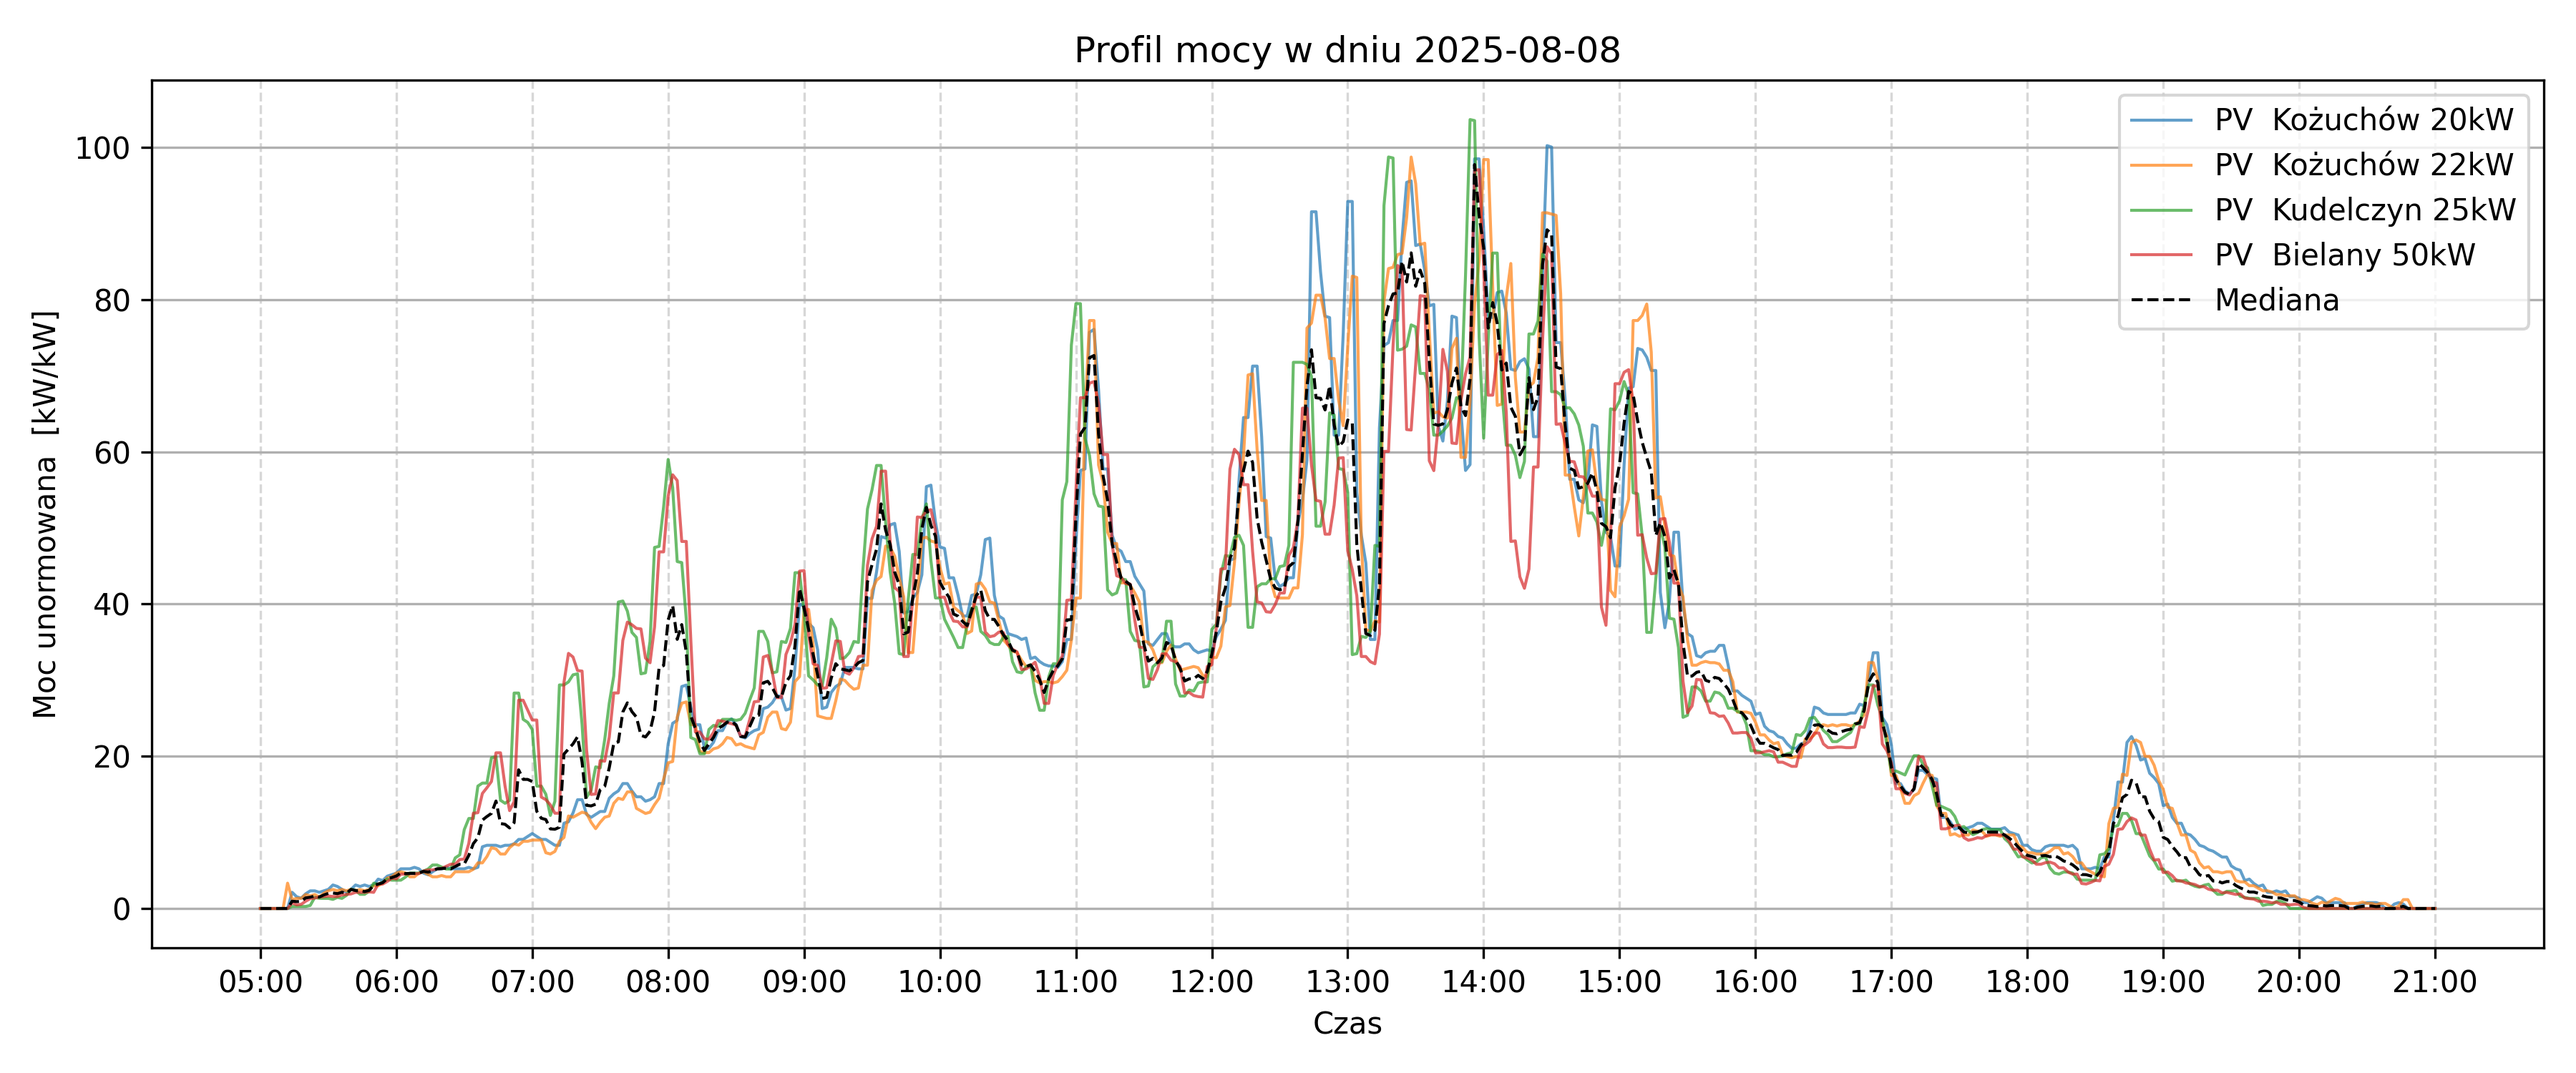
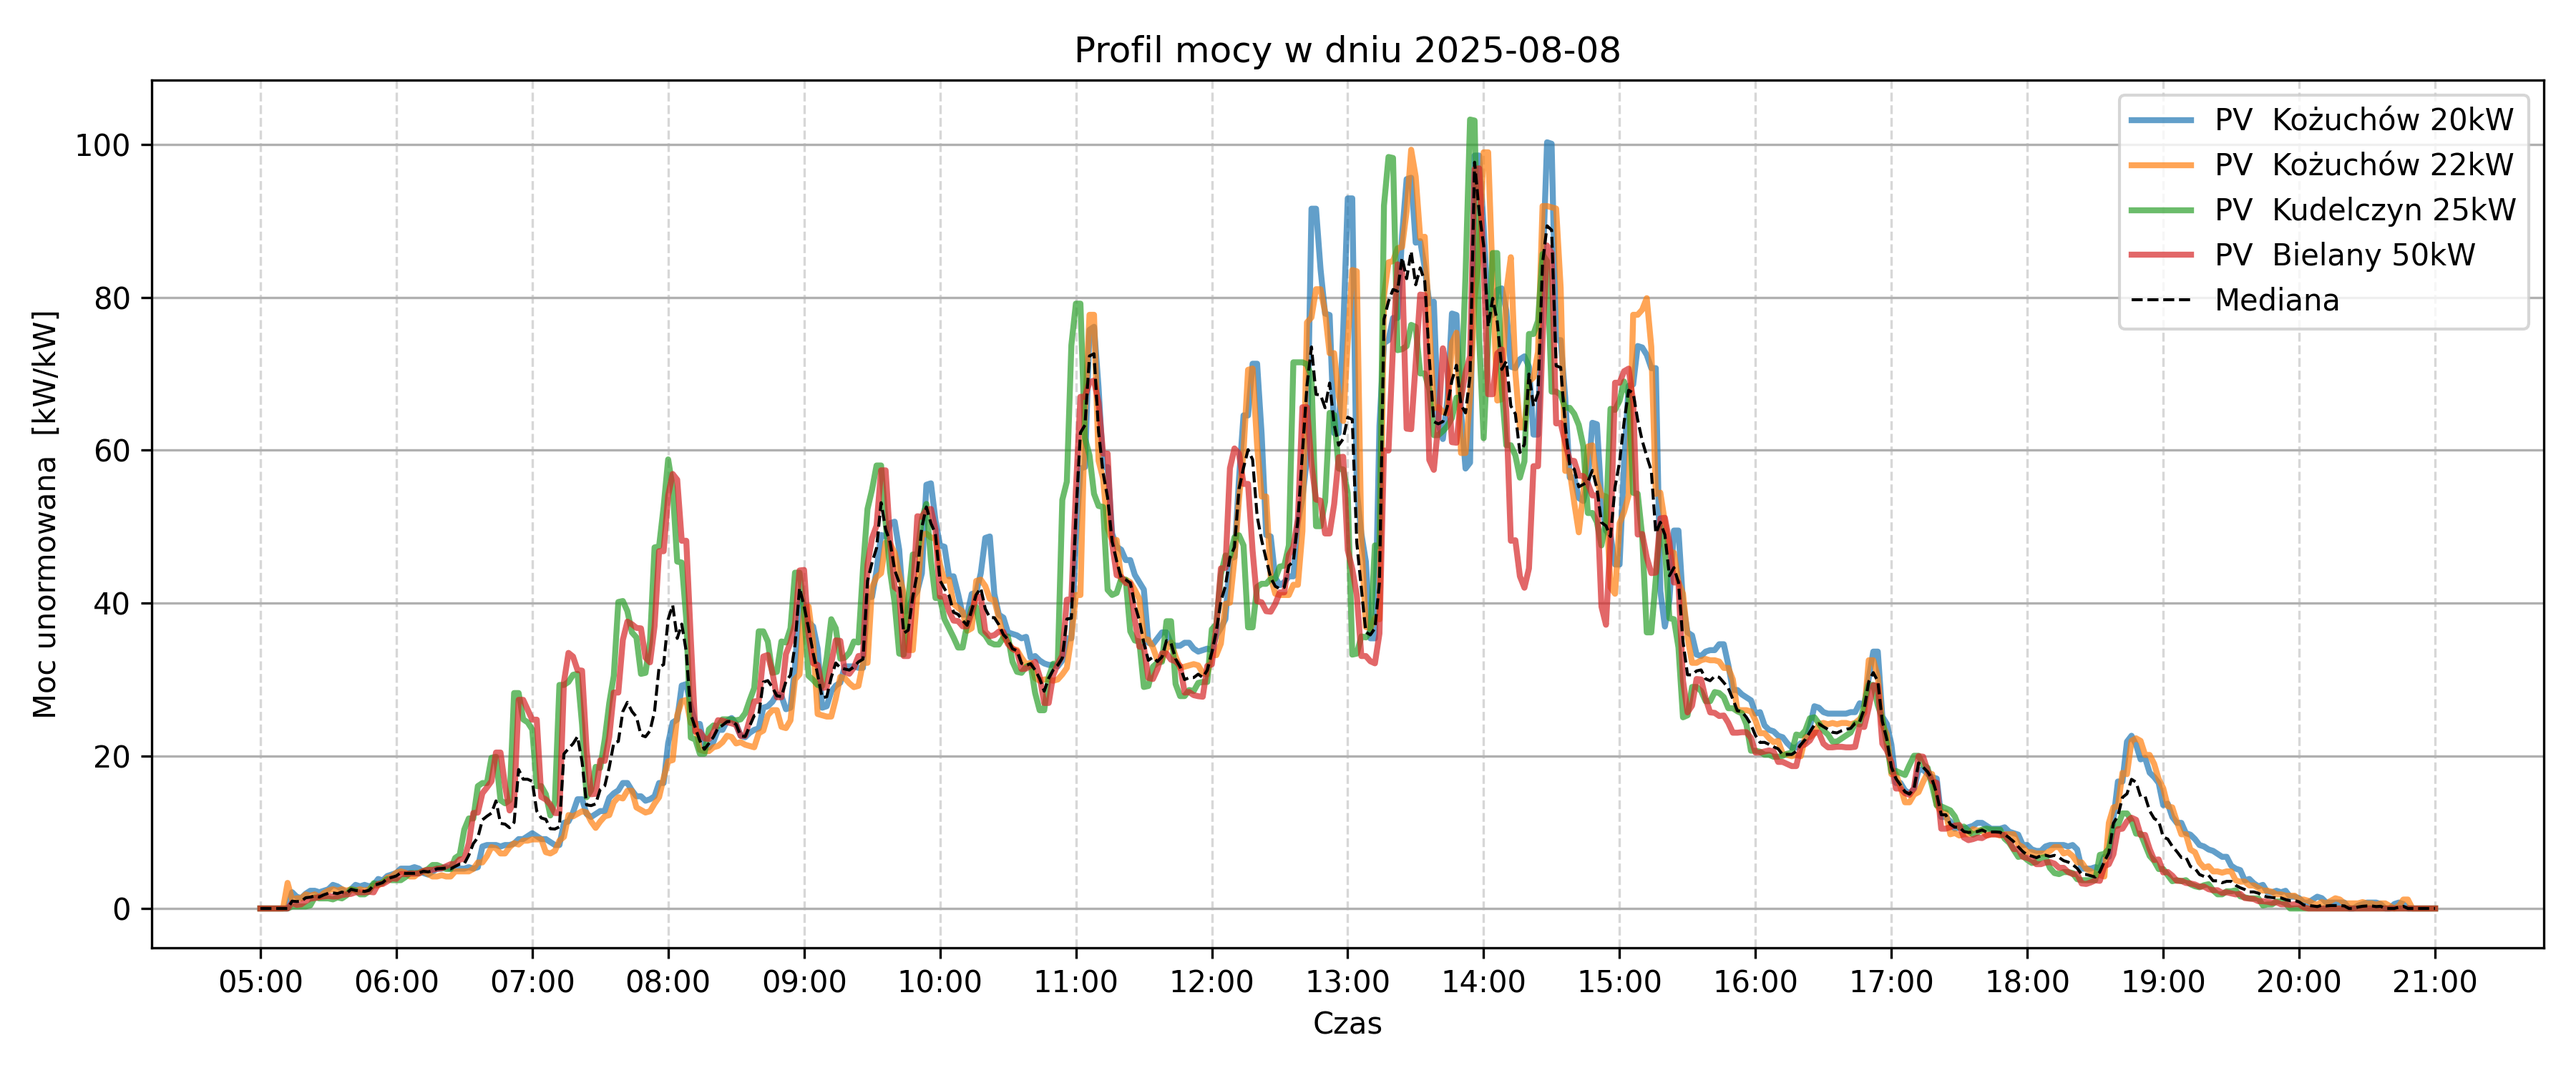
zmiany w wykresach i przeliczenie historii

Changed region(s): [[0.0311, 0.1227, 0.9644, 0.8587], [0.7467, 0.6747, 0.8711, 0.828], [0.8711, 0.828, 0.9333, 0.8587]]

diff --git a/A5_analyze/analizy.py b/A5_analyze/analizy.py
@@ -27,8 +27,6 @@ def get_device_name(sn):
     else:
         device_name='Unknown Device'
     return device_name
-
-
 def load_db_data(engine, date_str: str) -> pd.DataFrame:
     logger.info(f"\nPobieranie danych z bazy danych dla dnia: {date_str}")
     """
@@ -255,7 +253,6 @@ def interpolate_energy_linear_grid(df_db_data: pd.DataFrame, df_coeff, date_str,
     plot_all_with_median(df_all_sn_kW, date_str, save_path=f"{config.PLOTS_DIR}/median_{date_str}.png")
     #plot_all_with_median(df_all_sn_kW, date_str)
     return df_all_sn_kW #all
-
 def df_to_db(df: pd.DataFrame, engine, table_name: str, sn_value: str):
     """
     Zapisuje DataFrame do tabeli SQL:
@@ -322,7 +319,6 @@ def df_to_db(df: pd.DataFrame, engine, table_name: str, sn_value: str):
     with engine.begin() as connection:
         connection.execute(text(sql_insert))
         connection.execute(text(sql_drop))
-
 def analyze_sn(sn, coeff, group, df_all_sn_kW,full_index,timeprobe:str, date_str: str) -> None:
     # sn - identyfikator instalacji
     # coeff - współczynnik dla instalacji
@@ -443,7 +439,7 @@ def plot_all_with_median(df_all,date_str,save_path=None):
     for col in df_all.columns:
         sn_name=get_device_name(col)
         if col != 'median_kW':
-            plt.plot(df_all.index, df_all[col], label=sn_name, linewidth=1, alpha=0.7)
+            plt.plot(df_all.index, df_all[col], label=sn_name, linewidth=2, alpha=0.7)
 
     # Mediana — na końcu, grubszą linią
     plt.plot(df_all.index, df_all['median_kW'],
@@ -491,20 +487,19 @@ def main():
     engine = connect_db()
     # print (df_coeff.head(10))
     #reference_cases = ["2025-04-25", "2025-05-14", "2025-05-22", "2025-05-25", "2025-06-05", "2025-07-02", "2025-07-05","2025-07-06", "2025-07-10", "2025-07-11", "2025-07-14"]
-    #reference_cases = ["2025-07-06", "2025-07-02"]
-    #reference_cases = ["2025-06-30"]
-    #reference_cases = ["2025-04-12"]
+    #reference_cases = ["2025-07-06", "2025-07-02","2025-06-30","2025-04-12"]
+    #reference_cases = ["2025-08-11"]
     # jeśli reference_cases jest okreslone
     if 'reference_cases' in locals(): #Zmienna reference_cases jest zdefiniowana
         days = [datetime.strptime(d, "%Y-%m-%d") for d in reference_cases] # odkomentuj dla testów wybranych dni
     else:
         today = datetime.now().strftime("%Y-%m-%d")
-        start_time = (datetime.now() - timedelta(days=300)).strftime("%Y-%m-%d")
+        start_time = (datetime.now() - timedelta(days=30)).strftime("%Y-%m-%d")
         end_date = today
         days = pd.date_range(start_time, end_date)
 
     # lub przeliczanie wybranego zakresu
-    days = pd.date_range(datetime.strptime("2025-01-17", "%Y-%m-%d"), datetime.strptime("2025-08-11", "%Y-%m-%d"))
+    days = pd.date_range(datetime.strptime("2025-01-11", "%Y-%m-%d"), datetime.strptime("2025-06-10", "%Y-%m-%d"))
 
     for day in reversed(days):  # od końca
         date_str = day.strftime("%Y-%m-%d")
